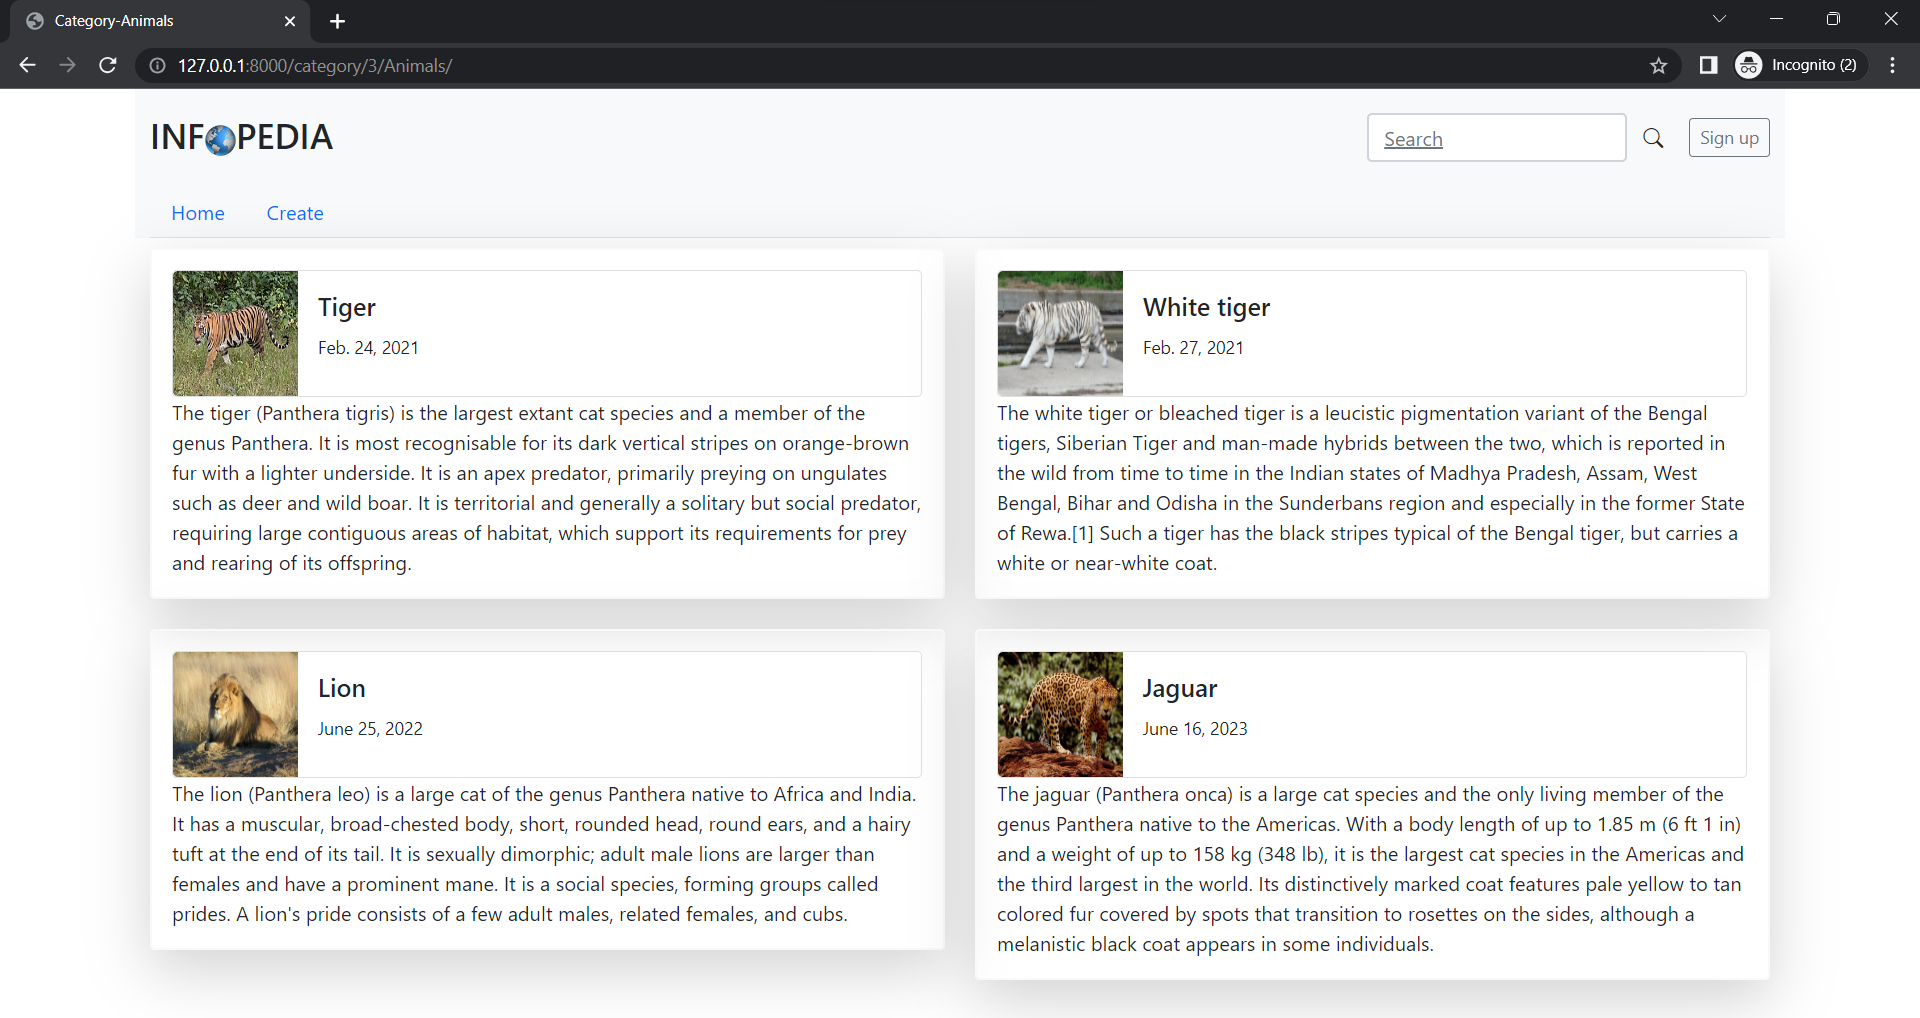
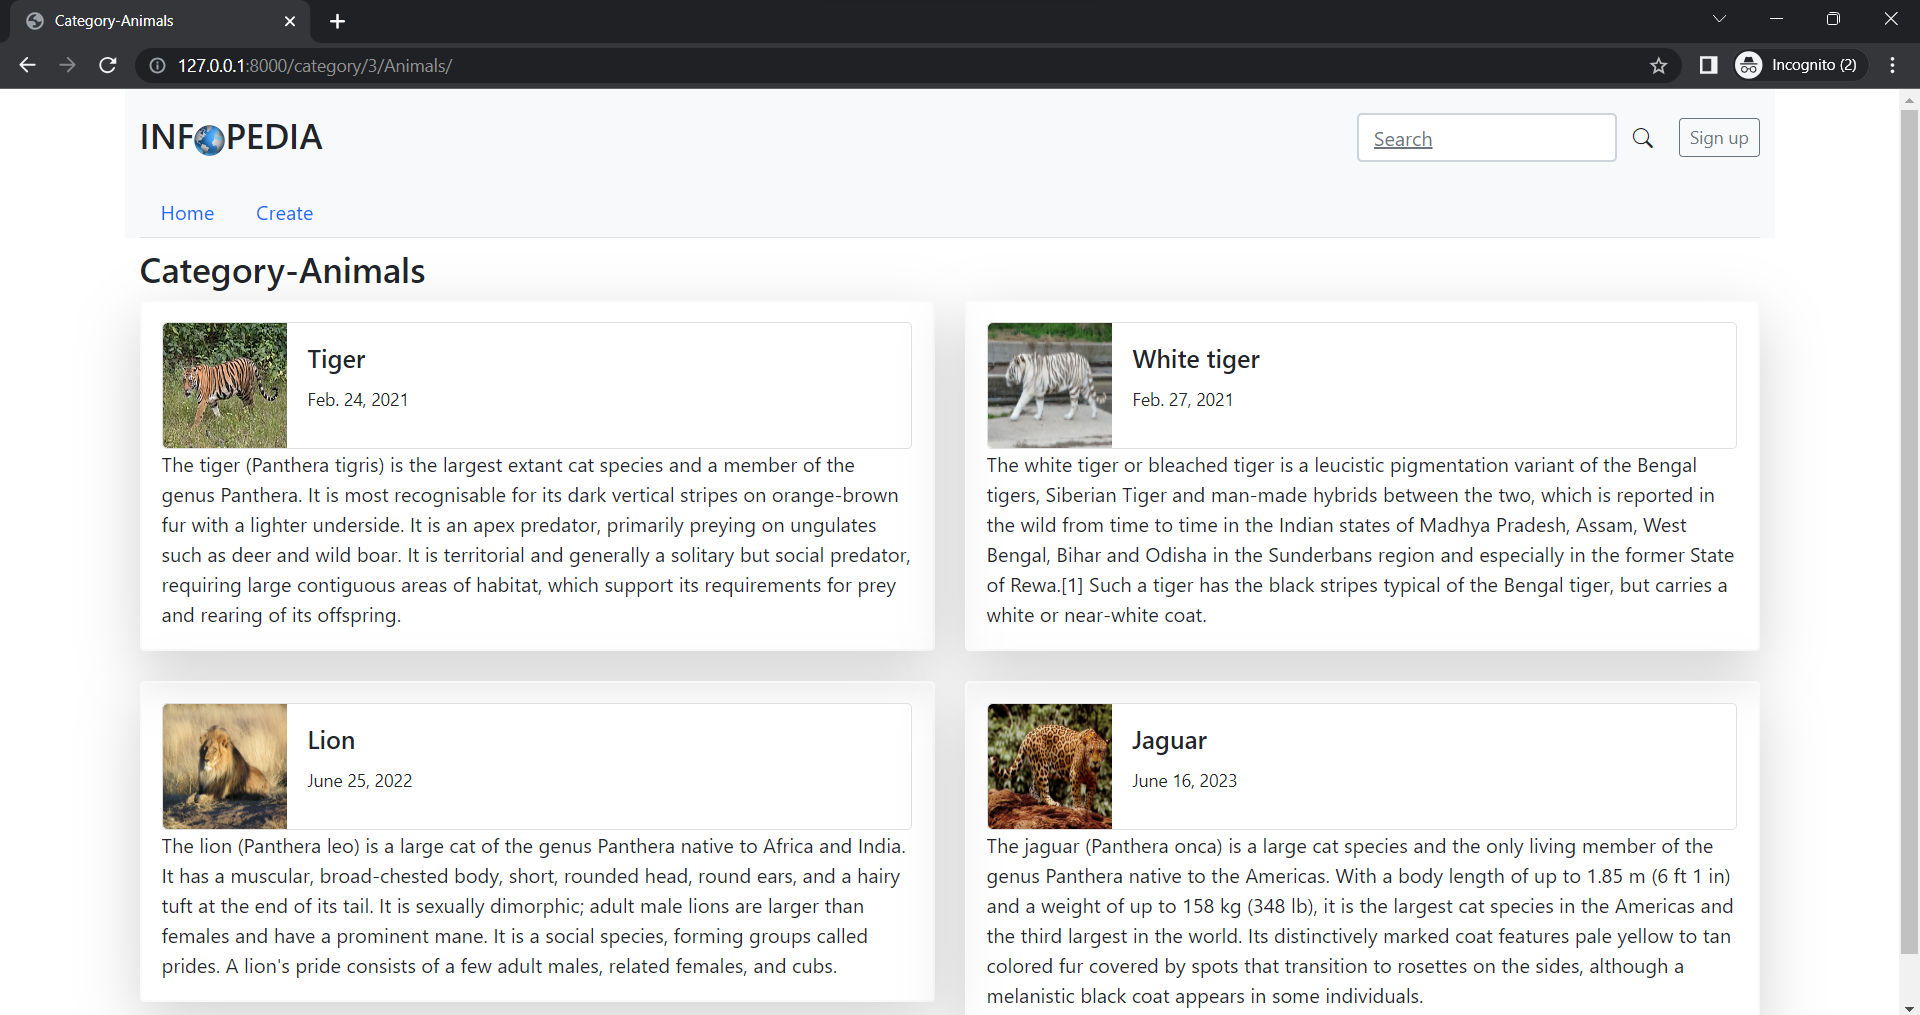
screenshots updated

diff --git a/index/templates/index/articles/category.html b/index/templates/index/articles/category.html
@@ -11,6 +11,7 @@
 <main class="container">
 
   <div class="row mb-2">
+    <h3>{{category_title}}</h3>
     {% for article in articles %}
     <div class="col-md-6">
       <div class="row g-0 border border-2 border-light rounded overflow-hidden flex-md-row mb-4 shadow-lg h-md-250 position-relative">

diff --git a/README.md b/README.md
@@ -3,8 +3,8 @@
 <h3>Screenshots</h3>
 <img src="Screenshots/home.png">
 <img src="Screenshots/categories.png">
-<img src="Screenshots/search.png">
 <img src="Screenshots/search1.png">
+<img src="Screenshots/search.png">
 <img src="Screenshots/article.png">
 <img src="Screenshots/article-update.png">
 <img src="Screenshots/article-update2.png">
